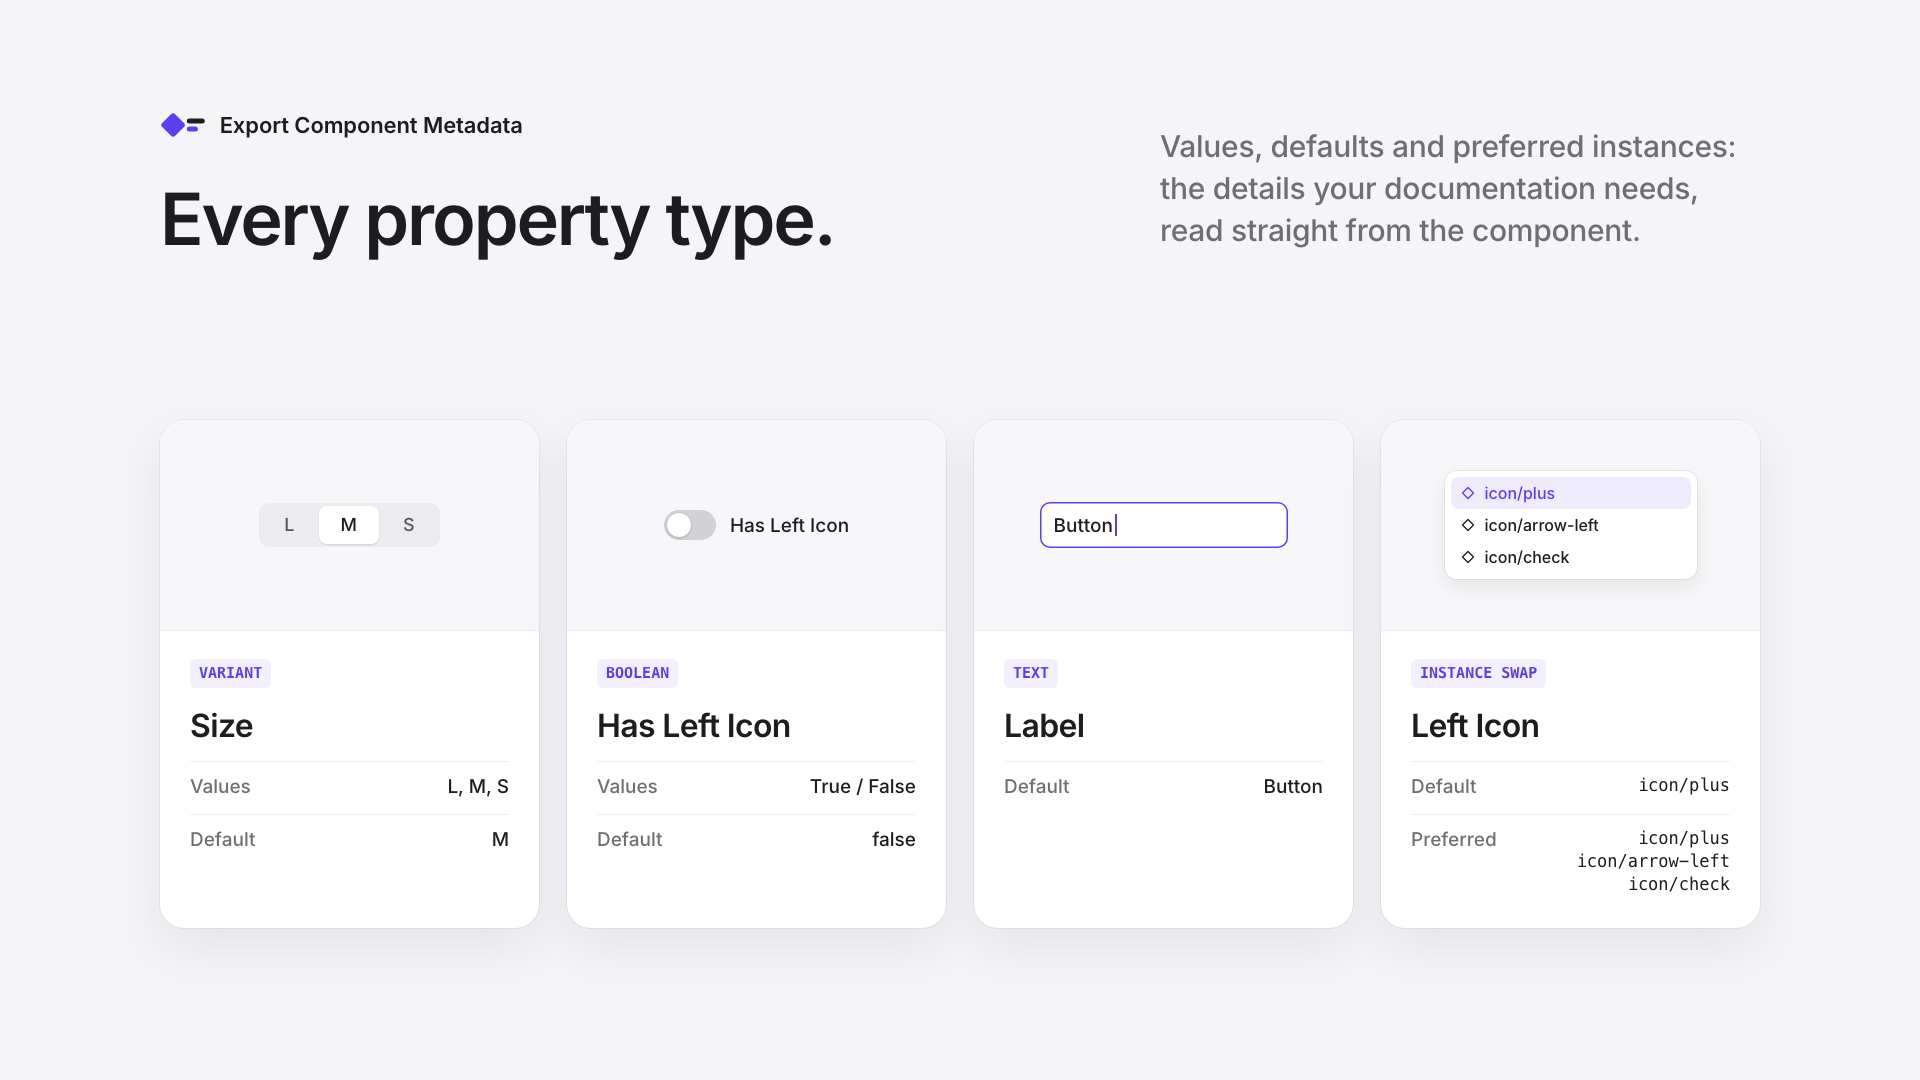
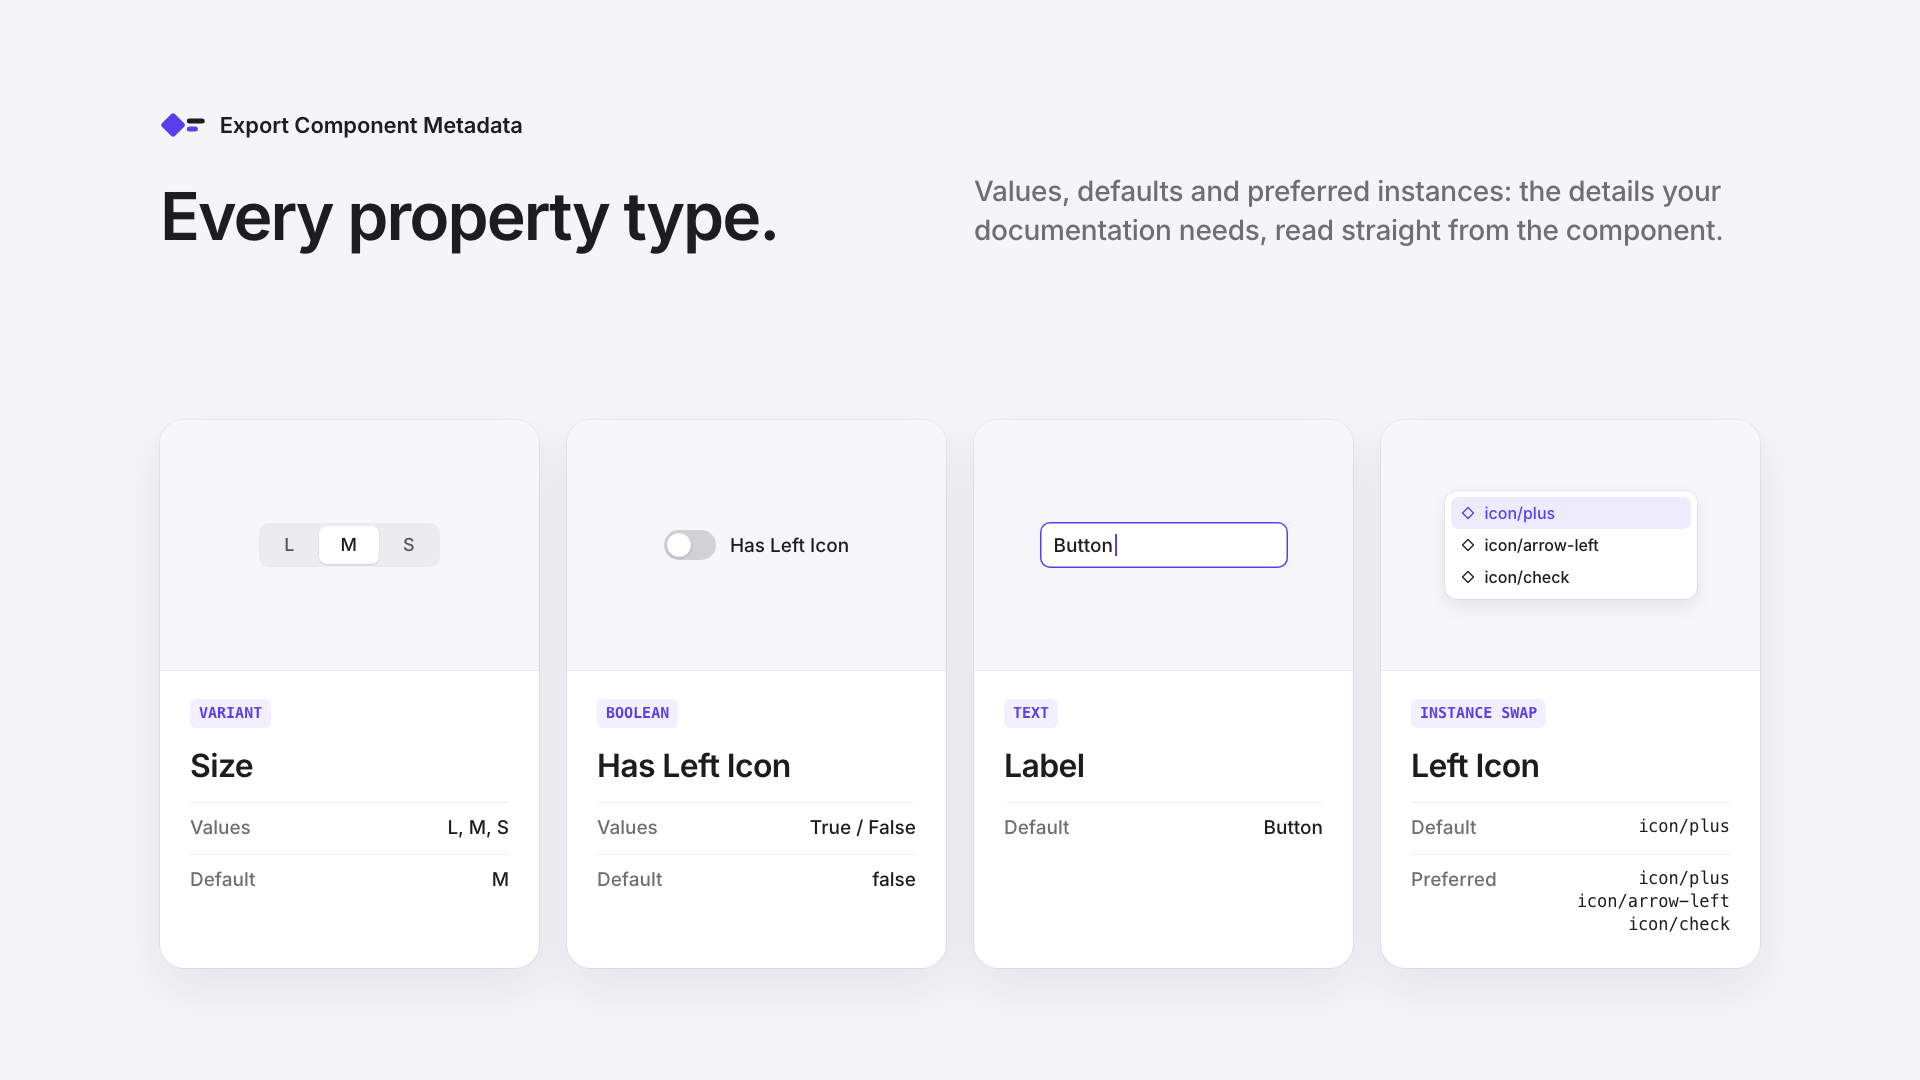
Put every listing slide on one grid
Measured each slide and fixed what was off:

- Any selection: connectors started 29 px off the tile centres and stopped
  short of the result; frames had different heights. Frames now share top
  and bottom edges, sit centred under their captions, and the connectors
  are drawn from the measured tile and result positions.
- One headline size (66 px) and one lede size (28 px) across the gallery.
  Top headers align the lede's last baseline with the headline's and start
  it on a column edge of the content below.
- Windows and documents end on the 160 px margins, sit 40 px apart and are
  centred on y = 540; slide 1's window is back inside the safe area and the
  component set is centred in the free canvas.
- Content blocks end 112 px from the bottom, matching the top margin.

diff --git a/docs/publishing/src/gallery-4-any-selection.html b/docs/publishing/src/gallery-4-any-selection.html
@@ -1,18 +1,16 @@
 <!doctype html><html><head><meta charset="utf-8"><link rel="stylesheet" href="base.css"><style>
-.head{position:absolute;left:160px;right:160px;top:112px;display:flex;align-items:flex-end;justify-content:space-between;gap:80px}
-.head .lede{max-width:600px;margin:0 0 6px}
-h1{font-size:72px}
-.tiles{position:absolute;left:160px;right:160px;top:420px;display:grid;grid-template-columns:repeat(3,1fr);gap:32px}
+:root{--lede-w:512px}
+.tiles{position:absolute;left:160px;right:160px;top:416px;display:grid;grid-template-columns:repeat(3,1fr);gap:32px}
 .tile{height:330px;border-radius:24px;background:#1E1E1E;position:relative;overflow:hidden;
   background-image:radial-gradient(rgba(255,255,255,.06) 1px,transparent 1px);background-size:20px 20px}
 .cap{position:absolute;left:28px;top:24px;display:flex;align-items:center;gap:10px;font:600 19px/1 Inter;color:#F5F5F7}
 .cap svg{color:#B794FF}
 /* Only the frame sets the node's size, so every frame sits in the centre of its tile; the label hangs above it like in Figma */
-.node{position:absolute;left:50%;top:60%;transform:translate(-50%,-50%) scale(1.45)}
+.node{position:absolute;left:50%;top:var(--frame-cy);transform:translate(-50%,-50%) scale(1.45)}
 .lbl{position:absolute;left:1px;bottom:100%;margin-bottom:7px;display:flex;align-items:center;gap:5px;font:500 13px/1 Inter;color:#B794FF;white-space:nowrap}
 .set{display:flex;gap:10px;padding:16px;background:#fff;border:1.5px dashed #9747FF;border-radius:6px}
-.solo{display:inline-block;padding:12px;background:#fff;border-radius:4px}
-.solo.var{box-shadow:0 0 0 1.5px #9747FF}
+.solo{display:inline-block;padding:16px;background:#fff;border:1.5px solid transparent;border-radius:6px}
+.solo.var{border-color:#9747FF}
 .btn{display:inline-flex;align-items:center;gap:6px;height:34px;padding:0 15px;border-radius:999px;background:#1D1D1F;color:#fff;font:500 14px/1 Inter;white-space:nowrap}
 .btn.h{background:#3A3A3C}.btn.d{background:#E5E5EA;color:#AEAEB2}
 .sel{position:absolute;inset:-5px;border:2px solid var(--sel);pointer-events:none}
@@ -20,22 +18,22 @@ h1{font-size:72px}
 .sel i:nth-child(1){left:-5px;top:-5px}.sel i:nth-child(2){right:-5px;top:-5px}.sel i:nth-child(3){left:-5px;bottom:-5px}.sel i:nth-child(4){right:-5px;bottom:-5px}
 .wrap{position:relative;display:inline-block}
 svg.links{position:absolute;left:0;top:0}
-.result{position:absolute;left:50%;top:860px;transform:translateX(-50%);display:flex;align-items:center;gap:16px;background:#fff;border-radius:999px;padding:18px 30px 18px 24px;
+.result{position:absolute;left:960px;transform:translateX(-50%);bottom:112px;display:flex;align-items:center;gap:12px;background:#fff;border-radius:999px;padding:19px 28px;
   box-shadow:0 0 0 1px rgba(0,0,0,.05),0 16px 40px rgba(30,20,90,.10);font:500 22px/1 Inter;white-space:nowrap}
-.result img{height:26px}.result b{font-weight:600;color:#7B3FE4}.result span{color:var(--grey)}
+.result svg{color:#7B3FE4;flex:none}.result b{font-weight:600;color:#7B3FE4}.result span{color:var(--grey);margin-left:4px}
 </style></head><body>
 <div class="head">
   <div><div class="eyebrow"><img src="../../brand/symbol/symbol-color.svg" alt="">Export Component Metadata</div>
   <h1>Start from any selection.</h1></div>
-  <p class="lede">The component set, one of its variants or an instance on the canvas: the plugin finds the main component and documents it.</p>
+  <p class="lede">Select the set, a variant or an instance. The plugin finds the main component.</p>
 </div>
-<svg class="links" width="1920" height="1080"><g fill="none" stroke="#C9C9D1" stroke-width="2"><path d="M445 750 C445 810 960 800 960 856"/><path d="M960 750 V856"/><path d="M1475 750 C1475 810 960 800 960 856"/></g><circle cx="960" cy="856" r="0"/></svg>
+<svg class="links" width="1920" height="1080"><g id="links" fill="none" stroke="#C9C9D1" stroke-width="2"></g></svg>
 <div class="tiles">
   <div class="tile"><div class="cap" id="c1"></div><div class="node"><div class="lbl" id="l1"></div><div class="wrap"><div class="set"><span class="btn">Button</span><span class="btn h">Button</span><span class="btn d">Button</span></div><div class="sel"><i></i><i></i><i></i><i></i></div></div></div></div>
   <div class="tile"><div class="cap" id="c2"></div><div class="node"><div class="lbl" id="l2"></div><div class="wrap"><div class="solo var"><span class="btn h">Button</span></div><div class="sel"><i></i><i></i><i></i><i></i></div></div></div></div>
   <div class="tile"><div class="cap" id="c3"></div><div class="node"><div class="lbl" id="l3"></div><div class="wrap"><div class="solo"><span class="btn">Button</span></div><div class="sel"><i></i><i></i><i></i><i></i></div></div></div></div>
 </div>
-<div class="result"><img src="../../brand/symbol/symbol-color.svg" alt=""><b>Button</b><span>Variants: 12 · Component Props: 5</span></div>
+<div class="result"><svg width="22" height="22" viewBox="0 0 16 16"><path d="M8 1.5 14.5 8 8 14.5 1.5 8Z" fill="none" stroke="currentColor" stroke-width="1.2" stroke-linejoin="round"/></svg><b>Button</b><span>Variants: 12 · Component Props: 5</span></div>
 <script>
 // Figma layer icons: component set, variant (component), instance
 const SET = '<svg width="16" height="16" viewBox="0 0 16 16"><path d="M8 1.5 14.5 8 8 14.5 1.5 8Z" fill="none" stroke="currentColor" stroke-width="1.3" stroke-linejoin="round" stroke-dasharray="2.2 1.6"/><path d="M8 5.2 10.8 8 8 10.8 5.2 8Z" fill="currentColor"/></svg>';
@@ -45,5 +43,21 @@ const set = (id, html) => document.getElementById(id).innerHTML = html;
 set('c1', SET + 'The component set'); set('l1', SET + 'Button');
 set('c2', COMP + 'One of its variants'); set('l2', COMP + 'Size=M, State=Hover');
 set('c3', INST + 'An instance'); set('l3', INST + 'Button');
+// Centre each frame in the space under the caption: equal room above its label and below the frame
+document.fonts.ready.then(() => {
+const tile = document.querySelector('.tile'), cap = tile.querySelector('.cap').getBoundingClientRect();
+const t = tile.getBoundingClientRect(), wrap = tile.querySelector('.wrap').getBoundingClientRect(), lbl = tile.querySelector('.lbl').getBoundingClientRect();
+const above = wrap.top - lbl.top, room = t.bottom - cap.bottom;
+const frameTop = cap.bottom + (room - (above + wrap.height)) / 2 + above;
+document.documentElement.style.setProperty('--frame-cy', `${frameTop - t.top + wrap.height / 2}px`);
+// Connectors run from each tile's bottom centre to the top centre of the result
+requestAnimationFrame(() => {
+  const r = document.querySelector('.result').getBoundingClientRect(), x = (r.left + r.right) / 2, mid = (t.bottom + r.top) / 2;
+  document.getElementById('links').innerHTML = [...document.querySelectorAll('.tile')].map((el) => {
+    const b = el.getBoundingClientRect(), cx = (b.left + b.right) / 2;
+    return `<path d="M${cx} ${b.bottom} C${cx} ${mid} ${x} ${mid} ${x} ${r.top}"/>`;
+  }).join('');
+});
+});
 </script>
 </body></html>

diff --git a/docs/publishing/src/gallery-1-select.html b/docs/publishing/src/gallery-1-select.html
@@ -1,11 +1,10 @@
 <!doctype html><html><head><meta charset="utf-8"><link rel="stylesheet" href="base.css"><style>
-h1{font-size:66px}.lede{font-size:28px}
 .copy{position:absolute;left:160px;top:0;bottom:0;width:640px;display:flex;flex-direction:column;justify-content:center}
 .canvas{position:absolute;left:840px;top:110px;width:1100px;height:860px;border-radius:28px 0 0 28px;background:#1E1E1E;overflow:hidden;
   background-image:radial-gradient(rgba(255,255,255,.06) 1px,transparent 1px);background-size:24px 24px}
-.set{position:absolute;left:52px;top:262px}
+.set{position:absolute}
 .set .label{display:flex;align-items:center;gap:6px;font:500 15px/1 Inter;color:#B794FF;margin:0 0 10px 2px}
-.frame{position:relative;display:grid;grid-template-columns:repeat(4,auto);gap:18px 14px;padding:24px;background:#fff;border:1.5px dashed #9747FF;border-radius:8px}
+.frame{position:relative;display:grid;grid-template-columns:repeat(4,auto);gap:16px 10px;padding:18px;background:#fff;border:1.5px dashed #9747FF;border-radius:8px}
 .btn{display:inline-flex;align-items:center;justify-content:center;gap:6px;border-radius:999px;background:#1D1D1F;color:#fff;font:500 14px/1 Inter;white-space:nowrap}
 .btn.l{height:42px;padding:0 18px;font-size:15px}.btn.m{height:34px;padding:0 15px}.btn.s{height:28px;padding:0 12px;font-size:12px}
 .btn.hover{background:#3A3A3C}.btn.pressed{background:#000;box-shadow:inset 0 0 0 3px rgba(255,255,255,.18)}.btn.disabled{background:#E5E5EA;color:#AEAEB2}
@@ -17,7 +16,7 @@ h1{font-size:66px}.lede{font-size:28px}
 <div class="copy">
   <div class="eyebrow"><img src="../../brand/symbol/symbol-color.svg" alt="">Export Component Metadata</div>
   <h1>Select a component.<br>Get its documentation.</h1>
-  <p class="lede">Pick a Component, Component Set or Instance. The plugin reads every property and writes it down.</p>
+  <p class="lede">Pick a Component, Component Set or Instance. The plugin reads every property.</p>
 </div>
 <div class="canvas">
   <div class="set">
@@ -36,6 +35,14 @@ for (const size of ['l', 'm', 's']) for (const state of ['', 'hover', 'pressed',
   const cell = document.createElement('div'); cell.style.cssText = 'display:flex;align-items:center;justify-content:center';
   cell.appendChild(b); frame.appendChild(cell);
 }
-pluginWindow({ x: 1468, y: 170, scale: 1.24, theme: 'dark' });
+const win = pluginWindow({ x: 1760 - 320 * 1.2, y: 540 - 600 * 1.2 / 2, scale: 1.2, theme: 'dark' });
+// Centre the component set (its frame, not the label) in the canvas left of the plugin window
+document.fonts.ready.then(() => {
+const canvas = document.querySelector('.canvas').getBoundingClientRect(), set = document.querySelector('.set');
+const fr = document.getElementById('frame').getBoundingClientRect(), s0 = set.getBoundingClientRect();
+const freeL = canvas.left, freeR = 1760 - 320 * 1.2;
+set.style.left = `${(freeL + freeR) / 2 - fr.width / 2 - (fr.left - s0.left) - canvas.left}px`;
+set.style.top = `${540 - fr.height / 2 - (fr.top - s0.top) - canvas.top}px`;
+});
 </script>
 </body></html>

diff --git a/docs/publishing/src/gallery-6-export-all.html b/docs/publishing/src/gallery-6-export-all.html
@@ -1,17 +1,16 @@
 <!doctype html><html><head><meta charset="utf-8"><link rel="stylesheet" href="base.css"><style>
 .copy{position:absolute;left:160px;top:0;bottom:0;width:620px;display:flex;flex-direction:column;justify-content:center}
-h1{font-size:72px}
 .facts{margin:56px 0 0;padding:0;list-style:none;display:flex;flex-direction:column;gap:22px}
 .facts li{display:flex;gap:16px;align-items:flex-start;font:500 24px/1.4 Inter;color:var(--graphite)}
 .facts svg{flex:none;margin-top:3px}
-.doc{position:absolute;left:1336px;top:220px;width:440px;height:700px;border-radius:20px;background:#fff;overflow:hidden;
+.doc{position:absolute;left:1326px;top:159px;width:434px;height:714px;border-radius:20px;background:#fff;overflow:hidden;
   box-shadow:0 0 0 1px rgba(0,0,0,.05),0 20px 48px rgba(30,20,90,.10)}
 .doc .tab{height:58px;display:flex;align-items:center;gap:10px;padding:0 24px;font:600 16px/1 Inter;border-bottom:1px solid #ECECF0}
 .doc .tab .size{margin-left:auto;font:500 14px/1 Inter;color:var(--grey)}
 .doc pre{margin:0;padding:20px 24px;font-size:15px;line-height:1.6}
 .doc .h{color:var(--violet);font-weight:600}.doc .tag{color:var(--violet);background:rgba(91,63,239,.08);border-radius:4px;padding:1px 3px;margin:0 -3px}.doc b{font-weight:600}.doc .p{color:#AEAEB2}.doc .hr{color:var(--violet);opacity:.55}
 .doc::after{content:"";position:absolute;left:0;right:0;bottom:0;height:140px;background:linear-gradient(rgba(255,255,255,0),#fff)}
-.saved{position:absolute;left:1336px;top:948px;display:flex;align-items:center;gap:10px;font:500 18px/1 Inter;color:var(--grey)}
+.saved{position:absolute;left:1326px;top:901px;display:flex;align-items:center;gap:10px;font:500 18px/1 Inter;color:var(--grey)}
 </style></head><body>
 <div class="copy">
   <div class="eyebrow"><img src="../../brand/symbol/symbol-color.svg" alt="">Export Component Metadata</div>
@@ -39,6 +38,6 @@ parts.forEach(([name, v, props], i) => {
   for (const [t, n, ...rest] of props) lines.push(`<span class="tag">[${t}]</span> <span class="p">**</span><b>${n}</b><span class="p">**</span>`, ...rest, '');
 });
 document.getElementById('all').innerHTML = lines.join('\n');
-pluginWindow({ x: 880, y: 160, scale: 1.27, theme: 'light', exportAll: 'md' });
+pluginWindow({ x: 1326 - 40 - 320 * 1.27, y: 540 - 600 * 1.27 / 2, scale: 1.27, theme: 'light', exportAll: 'md' });
 </script>
 </body></html>

diff --git a/docs/publishing/src/base.css b/docs/publishing/src/base.css
@@ -3,11 +3,15 @@
 :root{--violet:#5B3FEF;--lavender:#B99BFF;--graphite:#1D1D1F;--mist:#F5F5F7;--grey:#6E6E73;--figma-purple:#9747FF;--sel:#0D99FF}
 html,body{margin:0}
 body{width:1920px;height:1080px;overflow:hidden;position:relative;background:var(--mist);font-family:Inter;color:var(--graphite);-webkit-font-smoothing:antialiased}
-h1{font-weight:600;font-size:80px;line-height:1.04;letter-spacing:-0.03em;margin:0}
-.lede{font-weight:500;font-size:30px;line-height:1.4;letter-spacing:-0.01em;color:var(--grey);margin:28px 0 0}
+h1{font-weight:600;font-size:66px;line-height:1.04;letter-spacing:-0.03em;margin:0}
+.lede{font-weight:500;font-size:28px;line-height:1.4;letter-spacing:-0.01em;color:var(--grey);margin:28px 0 0}
 .eyebrow{display:flex;align-items:center;gap:14px;font:600 22px/1 Inter;letter-spacing:-0.005em;color:var(--graphite);margin-bottom:44px}
 .eyebrow img{height:26px}
 .abs{position:absolute}
+/* Layout grid: 160 px margins (content 160–1760), 40 px between objects, everything centred on y = 540.
+   Top header: the lede starts on a column edge of the content below and shares the headline's last baseline. */
+.head{position:absolute;left:160px;right:160px;top:112px;display:flex;justify-content:space-between;align-items:last baseline}
+.head .lede{flex:none;margin:0;width:var(--lede-w)}
 /* Figma (UI3) plugin window */
 .win{position:absolute;transform-origin:0 0;width:320px;border-radius:13px;overflow:hidden;background:#fff;
   box-shadow:0 0 0 .5px rgba(0,0,0,.18),0 2px 6px rgba(0,0,0,.08),0 24px 56px rgba(30,20,90,.16)}

diff --git a/docs/publishing/src/gallery-7-native.html b/docs/publishing/src/gallery-7-native.html
@@ -1,6 +1,5 @@
 <!doctype html><html><head><meta charset="utf-8"><link rel="stylesheet" href="base.css"><style>
 .copy{position:absolute;left:160px;top:0;bottom:0;width:640px;display:flex;flex-direction:column;justify-content:center}
-h1{font-size:72px}
 .facts{margin:56px 0 0;padding:0;list-style:none;display:flex;flex-direction:column;gap:22px}
 .facts li{display:flex;gap:16px;align-items:flex-start;font:500 24px/1.4 Inter}
 .facts svg{flex:none;margin-top:3px}
@@ -15,7 +14,7 @@ h1{font-size:72px}
 <script>
 const CHECK = '<svg width="26" height="26" viewBox="0 0 26 26"><circle cx="13" cy="13" r="12" fill="#5B3FEF"/><path d="m8 13.4 3.3 3.2L18 9.8" fill="none" stroke="#fff" stroke-width="2.2" stroke-linecap="round" stroke-linejoin="round"/></svg>';
 document.getElementById('facts').innerHTML = ['Follows Figma’s light and dark themes', 'No network access: nothing leaves your file', 'Open source, MIT licensed'].map((t) => `<li>${CHECK}${t}</li>`).join('');
-pluginWindow({ x: 900, y: 120, scale: 1.2, theme: 'light' });
-pluginWindow({ x: 1330, y: 230, scale: 1.2, theme: 'dark', format: 'json' });
+pluginWindow({ x: 1760 - 2 * 384 - 40, y: 540 - 720 / 2 - 55, scale: 1.2, theme: 'light' });
+pluginWindow({ x: 1760 - 384, y: 540 - 720 / 2 + 55, scale: 1.2, theme: 'dark', format: 'json' });
 </script>
 </body></html>

diff --git a/docs/publishing/src/gallery-3-properties.html b/docs/publishing/src/gallery-3-properties.html
@@ -1,10 +1,8 @@
 <!doctype html><html><head><meta charset="utf-8"><link rel="stylesheet" href="base.css"><style>
-.head{position:absolute;left:160px;right:160px;top:112px;display:flex;align-items:flex-end;justify-content:space-between;gap:80px}
-.head .lede{max-width:600px;margin:0 0 6px}
-h1{font-size:72px}
-.cards{position:absolute;left:160px;right:160px;top:420px;display:grid;grid-template-columns:repeat(4,1fr);gap:28px}
+:root{--lede-w:786px}
+.cards{position:absolute;left:160px;right:160px;bottom:112px;display:grid;grid-template-columns:repeat(4,1fr);gap:28px}
 .card{background:#fff;border-radius:24px;overflow:hidden;box-shadow:0 0 0 1px rgba(0,0,0,.05),0 20px 48px rgba(30,20,90,.08);display:flex;flex-direction:column}
-.stage{height:210px;background:#F7F7FA;border-bottom:1px solid #ECECF0;display:grid;place-items:center}
+.stage{height:250px;background:#F7F7FA;border-bottom:1px solid #ECECF0;display:grid;place-items:center}
 .body{padding:28px 30px 32px;display:flex;flex-direction:column;gap:14px}
 .tag{align-self:flex-start;font:600 15px/1 ui-monospace,"SF Mono",Menlo,monospace;color:var(--violet);background:rgba(91,63,239,.08);border-radius:6px;padding:7px 9px}
 .name{font:600 32px/1.1 Inter;letter-spacing:-0.02em;margin:6px 0 4px}

diff --git a/docs/publishing/src/gallery-5-paste.html b/docs/publishing/src/gallery-5-paste.html
@@ -1,6 +1,5 @@
 <!doctype html><html><head><meta charset="utf-8"><link rel="stylesheet" href="base.css"><style>
 .copy{position:absolute;left:160px;top:0;bottom:0;width:560px;display:flex;flex-direction:column;justify-content:center}
-h1{font-size:72px}
 .page{position:absolute;left:1236px;top:120px;width:524px;height:840px;border-radius:20px;background:#fff;overflow:hidden;
   box-shadow:0 0 0 1px rgba(0,0,0,.05),0 20px 48px rgba(30,20,90,.10)}
 .page .bar{height:52px;display:flex;align-items:center;gap:8px;padding:0 20px;border-bottom:1px solid #ECECF0;font:500 15px/1 Inter;color:var(--grey)}
@@ -35,6 +34,6 @@ const html = MD.trim().split(/\n{2,}/).map((block) => {
   return `<p>${block.split('  \n').map(inline).join('<br>')}</p>`;
 }).join('');
 document.getElementById('doc').innerHTML = html;
-pluginWindow({ x: 812, y: 200, scale: 1.2, theme: 'light', status: '📋 Copied to clipboard' });
+pluginWindow({ x: 1236 - 40 - 320 * 1.2, y: 540 - 600 * 1.2 / 2, scale: 1.2, theme: 'light', status: '📋 Copied to clipboard' });
 </script>
 </body></html>

diff --git a/docs/publishing/src/gallery-2-formats.html b/docs/publishing/src/gallery-2-formats.html
@@ -1,7 +1,5 @@
 <!doctype html><html><head><meta charset="utf-8"><link rel="stylesheet" href="base.css"><style>
-.head{position:absolute;left:160px;right:160px;top:112px;display:flex;align-items:flex-end;justify-content:space-between;gap:80px}
-.head .lede{max-width:600px;margin:0 0 6px}
-h1{font-size:72px}
+:root{--lede-w:780px}
 .cards{position:absolute;left:160px;right:160px;top:456px;bottom:-40px;display:grid;grid-template-columns:1fr 1fr;gap:40px}
 .card{border-radius:24px;background:#fff;overflow:hidden;position:relative;box-shadow:0 0 0 1px rgba(0,0,0,.05),0 20px 48px rgba(30,20,90,.08)}
 .card.dark{background:#1E1E1E;box-shadow:0 0 0 1px rgba(0,0,0,.4),0 20px 48px rgba(10,5,40,.18)}
